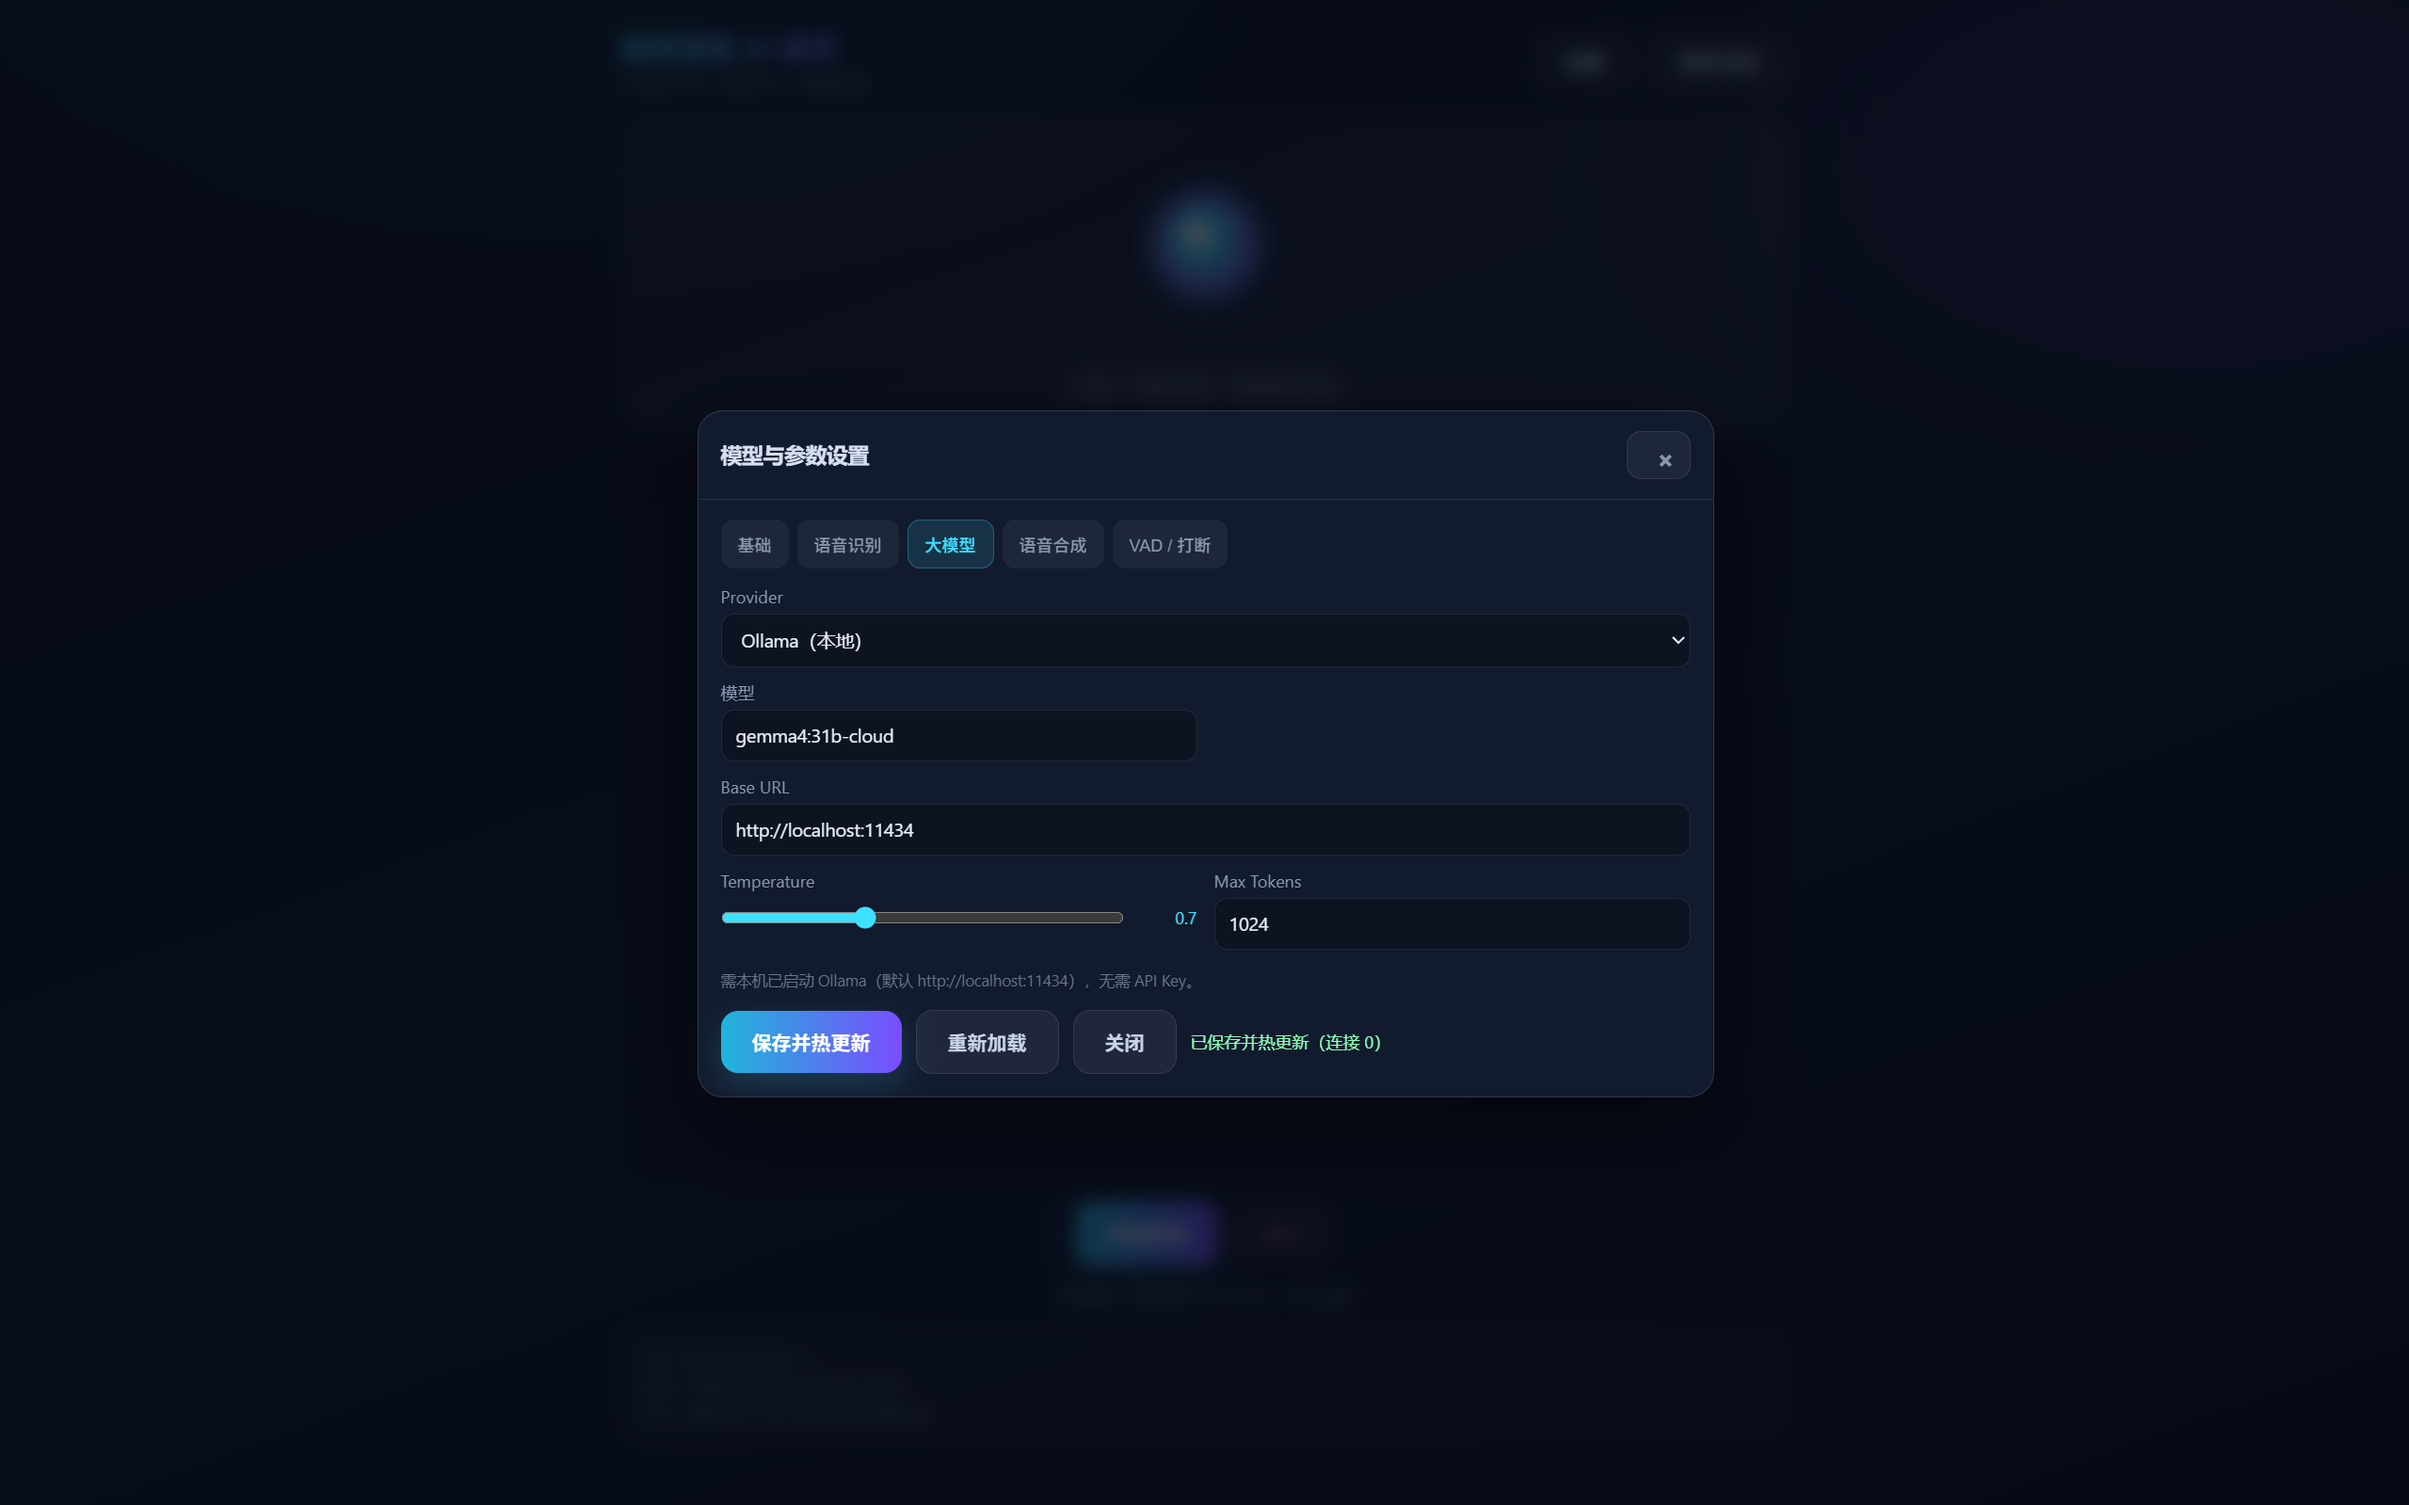
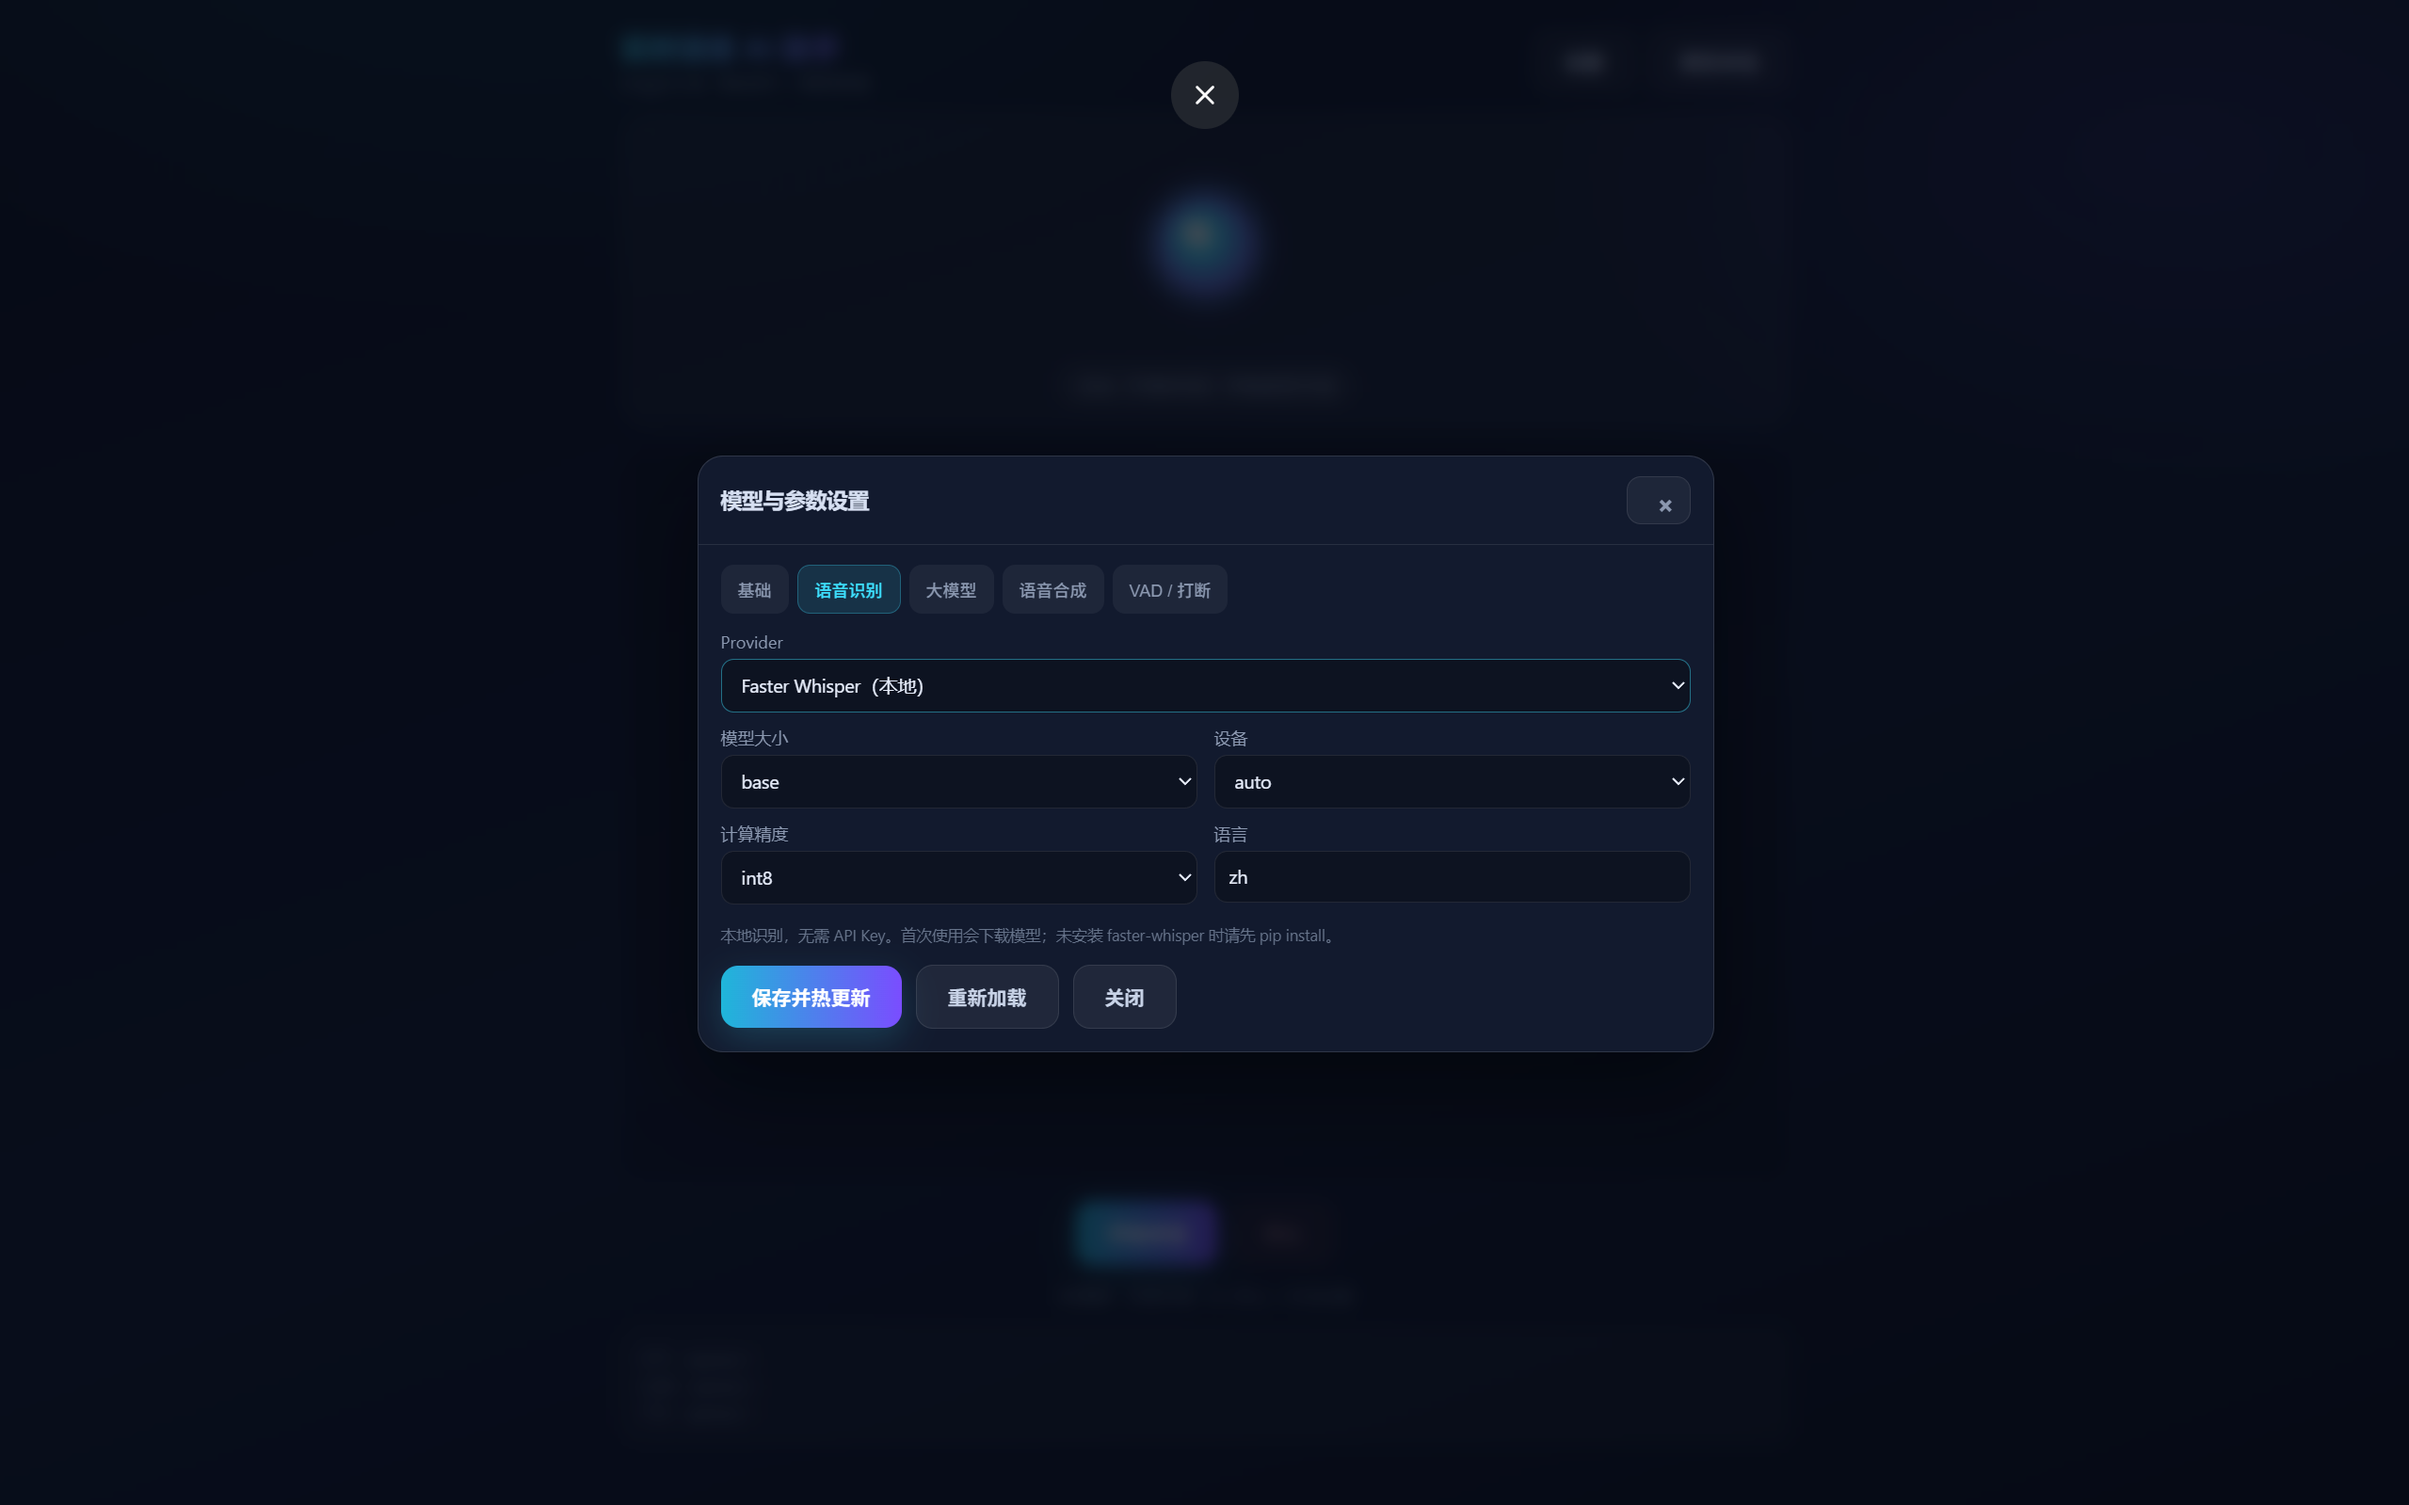
docs: use user-corrected screenshot set with all five settings tabs

Changed region(s): [[0.2778, 0.2758, 0.71, 0.7355], [0.4631, 0.0306, 0.5248, 0.0919], [0.6792, 0.2758, 0.71, 0.3064]]

diff --git a/README.md b/README.md
@@ -99,19 +99,19 @@ tts:
 
 ## 界面预览
 
-**对话中**（Orb 回复态 + 多轮气泡）：
+**对话中**（Orb 状态 + 多轮气泡）：
 
 ![Lingyin Lite 对话界面](docs/screenshots/ui_main.png)
 
 **设置面板**（改配置不改代码，保存即热更新）：
 
-| 基础 / 提示词 | 语音识别 | 语音合成 |
+| 基础 / 提示词 | 语音识别 | 大模型 |
 |:---:|:---:|:---:|
-| ![基础](docs/screenshots/ui_settings_basic.png) | ![STT](docs/screenshots/ui_settings_stt.png) | ![TTS](docs/screenshots/ui_settings_tts.png) |
+| ![基础](docs/screenshots/ui_settings_basic.png) | ![STT](docs/screenshots/ui_settings_stt.png) | ![LLM](docs/screenshots/ui_settings_llm.png) |
 
-| VAD / 打断 |
-|:---:|
-| ![VAD](docs/screenshots/ui_settings_vad.png) |
+| 语音合成 | VAD / 打断 |
+|:---:|:---:|
+| ![TTS](docs/screenshots/ui_settings_tts.png) | ![VAD](docs/screenshots/ui_settings_vad.png) |
 
 ## 架构速览
 
